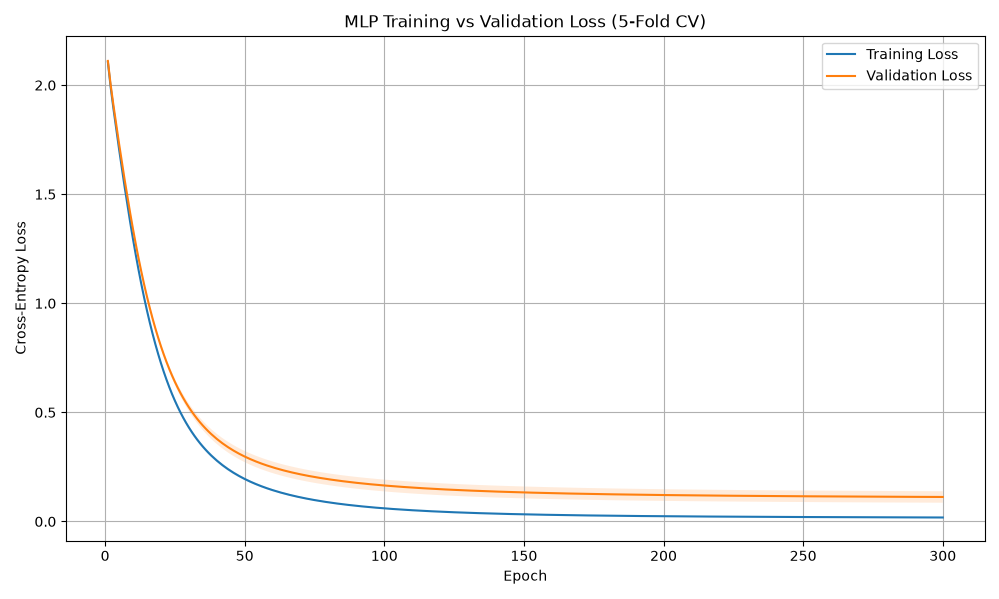
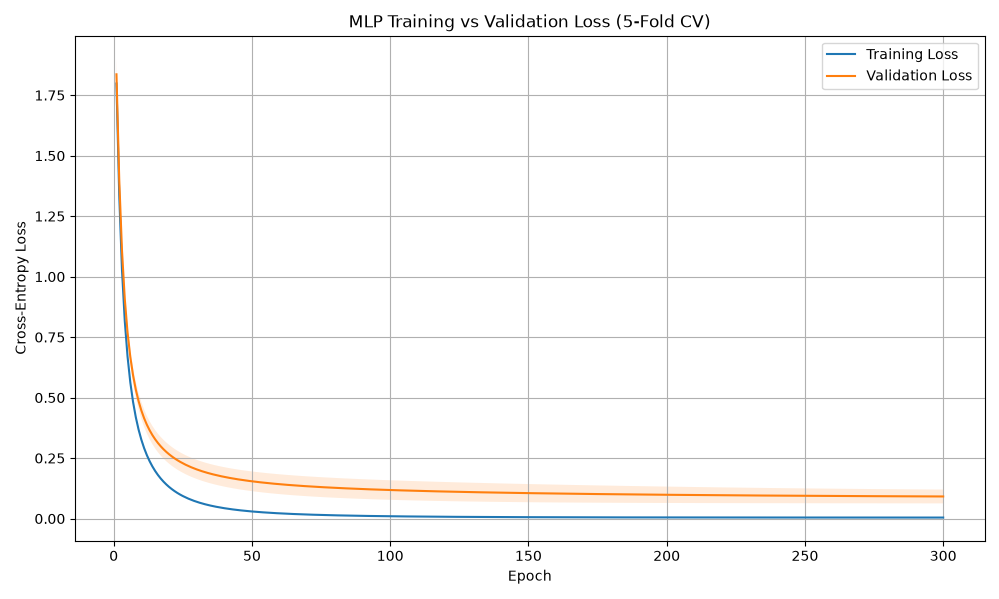
added extract_segmented_features(), updated hpo to minimize loss, updated optimal hyperparameters

diff --git a/src/hpo.py b/src/hpo.py
@@ -9,7 +9,7 @@ def optimize_mlp(features, labels):
     activations = ["tanh", "relu", "logistic"]
     batch_sizes = [16, 32, 64]
 
-    best_score = -float("inf")
+    best_score = float("inf")
     best_params = None
     best_results = None
     run_count = 0
@@ -38,14 +38,14 @@ def optimize_mlp(features, labels):
             **params,
         )
 
-        score = results["mean_f1"]
+        score = results["mean_val_loss"]
 
-        if score > best_score:
+        if score < best_score:
             best_score = score
             best_params = params
             best_results = results
 
     print("Best hyperparameters:", best_params)
-    print(f"Best mean macro F1: {best_score:.4f}")
+    print(f"Lowest mean validation loss: {best_score:.4f}")
 
     return best_params, best_results

diff --git a/src/preprocessing.py b/src/preprocessing.py
@@ -28,3 +28,23 @@ def extract_features(inputs):
         )
 
     return np.array(features)
+
+
+def extract_segmented_features(inputs, n_segments=3):
+    features = []
+
+    for recording in inputs:
+        segments = np.array_split(recording, n_segments, axis=0)
+        recording_features = []
+
+        for segment in segments:
+            means = np.mean(segment, axis=0)
+            stds = np.std(segment, axis=0)
+
+            recording_features.extend(means)
+            recording_features.extend(stds)
+
+        features.append(recording_features)
+
+    return np.array(features)
+

diff --git a/main.py b/main.py
@@ -14,7 +14,7 @@ from src.data_exploration import (
     plot_recording_lpcc,
 )
 from src.data_import import create_labels, load_sequences
-from src.preprocessing import create_folds, extract_features
+from src.preprocessing import create_folds, extract_features, extract_segmented_features
 from src.evaluate import (cross_validate_baseline, 
     cross_validate_mlp , evaluate_test_mlp,
     plot_mlp_confusion_matrix,

diff --git a/src/mlp.py b/src/mlp.py
@@ -5,7 +5,8 @@ from sklearn.preprocessing import StandardScaler
 def create_mlp():
     return MLPClassifier(
         hidden_layer_sizes=(64,),
-        activation="logistic",
+        # activation="tanh",
+        activation="tanh",
         alpha=0.01,
         solver="adam",
         learning_rate_init=0.001,
